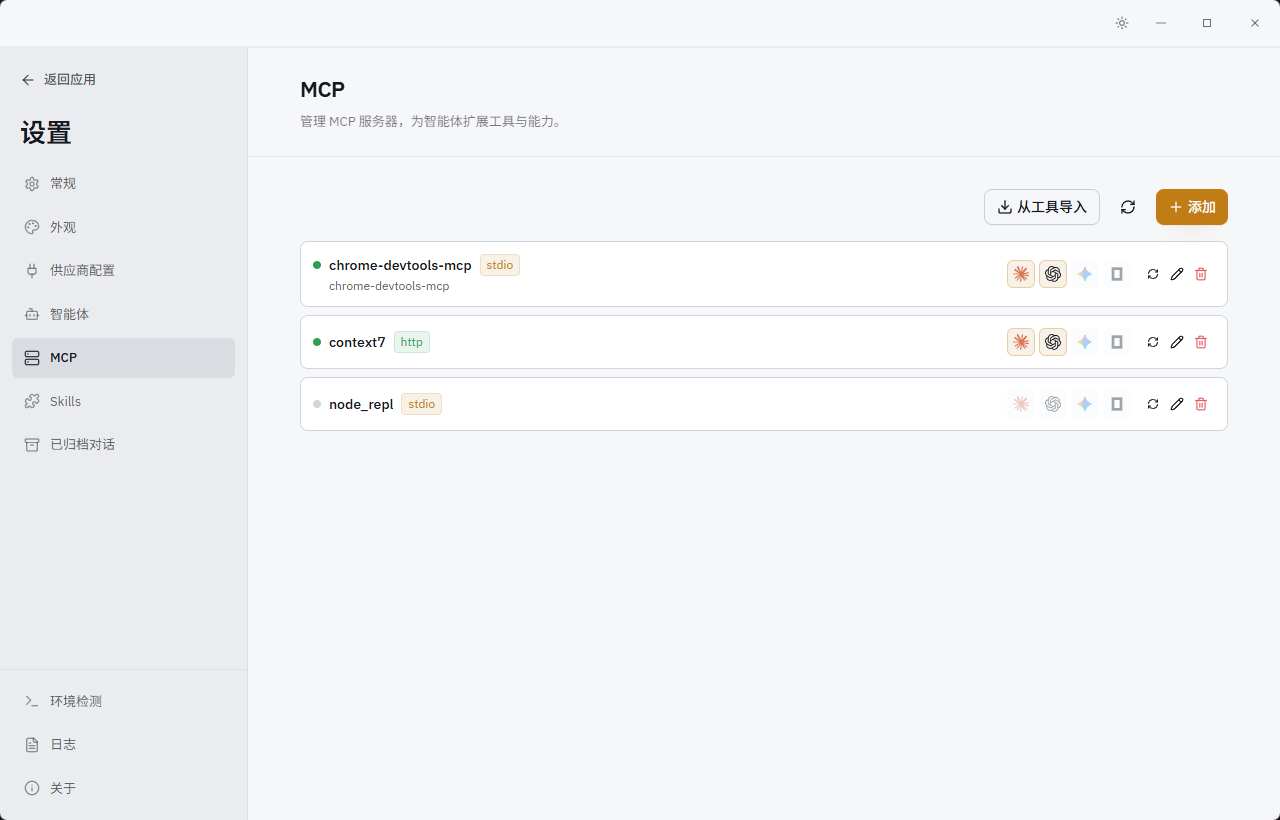
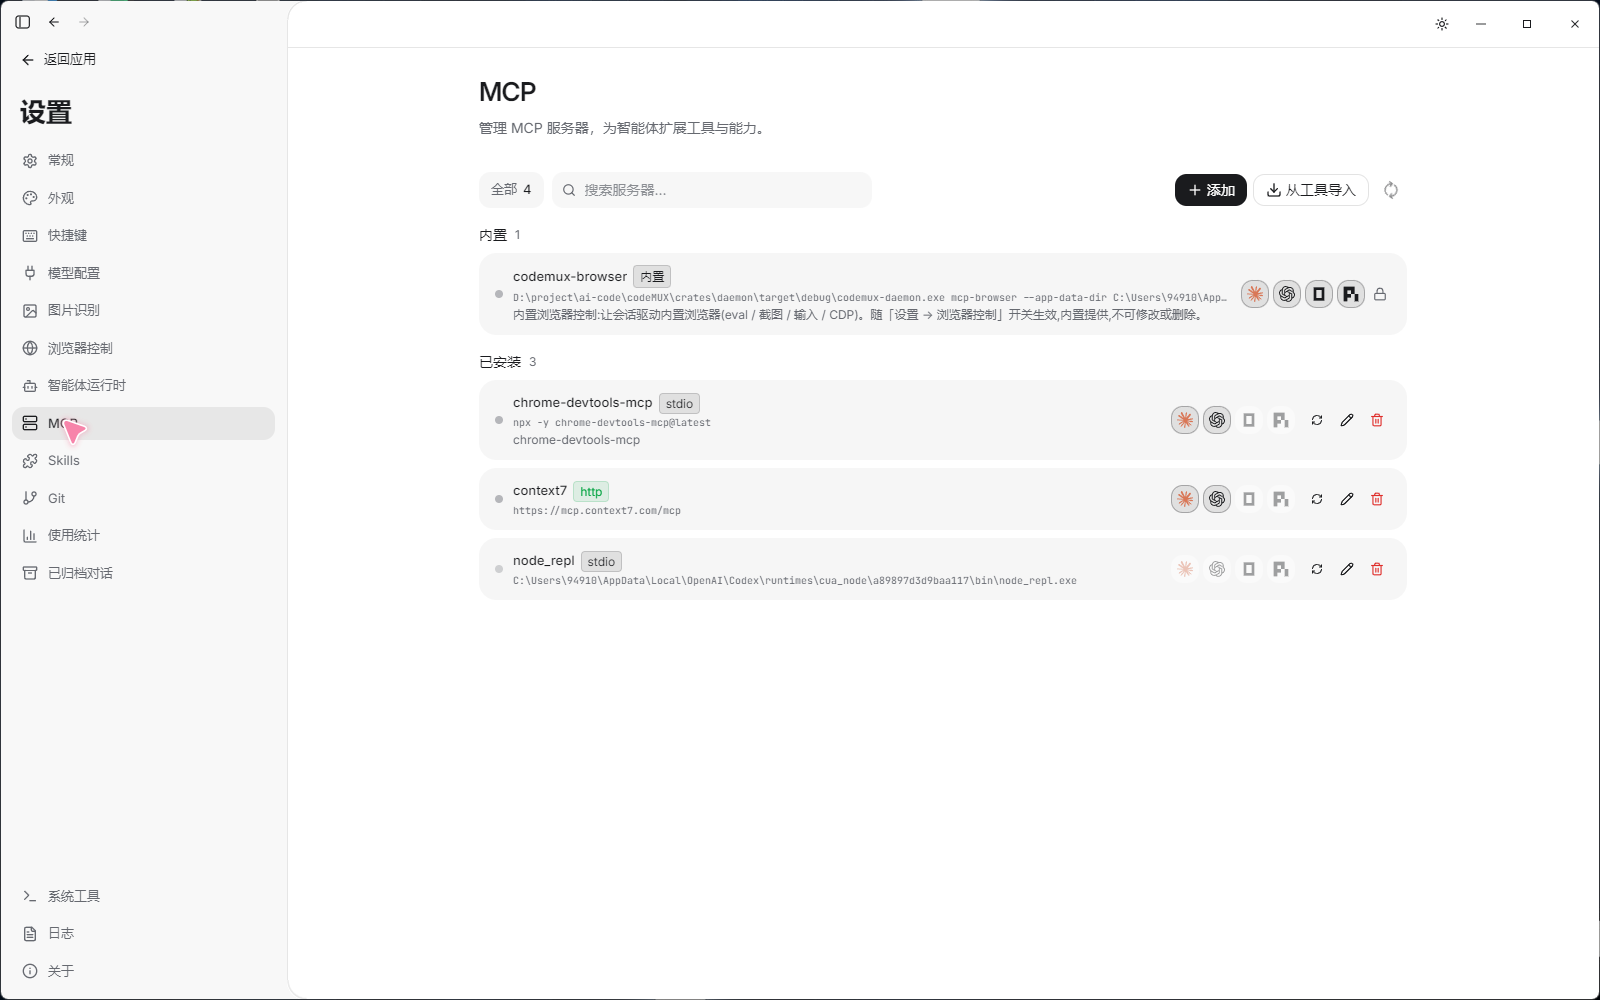
docs: 更新 README/CHANGELOG 与演示截图
- README 补充 OpenCode、工作任务看板、定时任务、内置浏览器等能力说明
- CHANGELOG 记录 0.3.1 以来的主要变更
- docs/README 同步文档索引
- 新增 appearance/automation/browser/shortcuts/tools/worktask 演示截图，移除 chat_full
- .gitignore 忽略本地 .pi/ agent 状态目录

diff --git a/CHANGELOG.md b/CHANGELOG.md
@@ -22,6 +22,25 @@
 - `Codex` 增加 Strict Local Plan Mode，会话级保存权限与计划模式
 - `Claude Code`、`Codex`、`OpenCode` 三套运行时统一接入 MCP / Skills 适配器
 
+#### 任务与自动化
+- 新增工作任务看板（待办 / 进行中 / 等你处理 / 完成四列）：任务按项目配额排队，在 `git worktree` 隔离分支里创建真实会话执行，完成后可合并 / 标记完成 / 重新开始
+- 新增定时任务：支持一次性、每日、每周、间隔等时点，到点自动新建会话执行指令，带启停开关、立即执行与运行历史
+
+#### 对话与工作区
+- 新增内置浏览器侧边面板：沙箱 webview（独立 partition、可配 CDP），随「设置 → 浏览器控制」开关提供内置 `codemux-browser` MCP，支持选取网页元素加入对话
+- 新增对任意用户消息的回退（可同时回滚文件）与从任意回复分叉出新会话
+- 整轮 AI 输出折叠为「已处理 + 时长 + 步骤数」，可展开查看思考、工具卡片与子智能体过程
+- 新增流式输出速度显示（`xx.x tok/s`）
+- 支持导入 Claude Code / Codex / OpenCode 的外部 CLI 会话历史
+- 子智能体拥有独立时间线与实时预览面板
+- 模型无视觉能力时，可用兜底视觉模型解析图片后注入上下文
+
+#### 外观
+- 外观可自定义主题、强调色、界面字体与字号、代码字号、圆角风格与幕布宽度，实时生效并持久化
+
+#### 客户端
+- 前端统一为一套构建（`dist-web/`）：桌面 UI、同机浏览器与手机浏览器共用；局域网 / 远程通过扫码配对访问
+
 #### Provider 与模型
 - 重构 Provider Profile：按 Claude Code / Codex / OpenCode 分标签管理
 - Claude Code 默认供应商直接复用 `~/.claude/settings.json`，切换时自动备份为 `.bak` 并支持回滚

diff --git a/docs/README.md b/docs/README.md
@@ -12,6 +12,7 @@
 | `tickets/` | 工单(可执行的实施单元,按 feature 分组) | `tickets/<feature-slug>/<NN>-<slug>.md`,NN 从 01 起 |
 | `research/` | 调研笔记(外部方案调研、根因排查) | `YYYY-MM-DD-<slug>.md` |
 | `guides/` | 使用 / 运维指南(长期有效的 how-to) | `<topic>-guide.md`,kebab-case |
+| `agents/` | 给 agent 的仓库协作约定(issue 追踪方式等) | `<topic>.md`,kebab-case |
 
 约定:
 
@@ -179,3 +180,15 @@
 ### adr
 
 架构决策记录见 [adr/](adr/),当前 0002–0013,格式与编号规则见 [domain-modeling skill 的 ADR-FORMAT](../.agents/skills/domain-modeling/ADR-FORMAT.md)。
+
+近期记录:
+
+- [0011 — Daemon 权威与 Local Daemon Token](adr/0011-daemon-authority-local-token.md)
+- [0012 — Daemon 独立进程与 Electron 桌面壳](adr/0012-daemon-process-electron-shell.md)
+- [0013 — 用户可配置键盘快捷键](adr/0013-user-configurable-keyboard-shortcuts.md)
+
+### agents
+
+| 文档 | 用途 |
+|---|---|
+| [issue-tracker](agents/issue-tracker.md) | 本仓库的 issue 追踪约定:spec 与 ticket 的落盘位置、状态与评论写法,以及 skill 提到 "publish to the issue tracker" 时的处理方式 |
